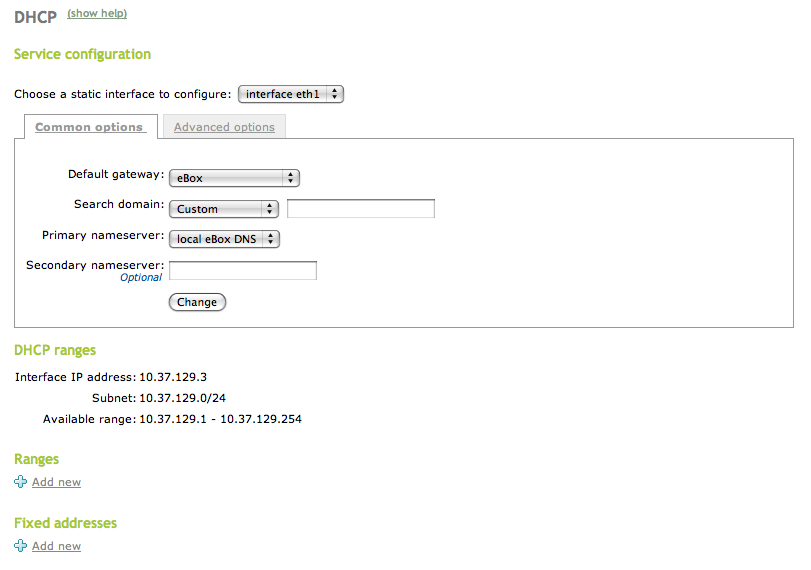
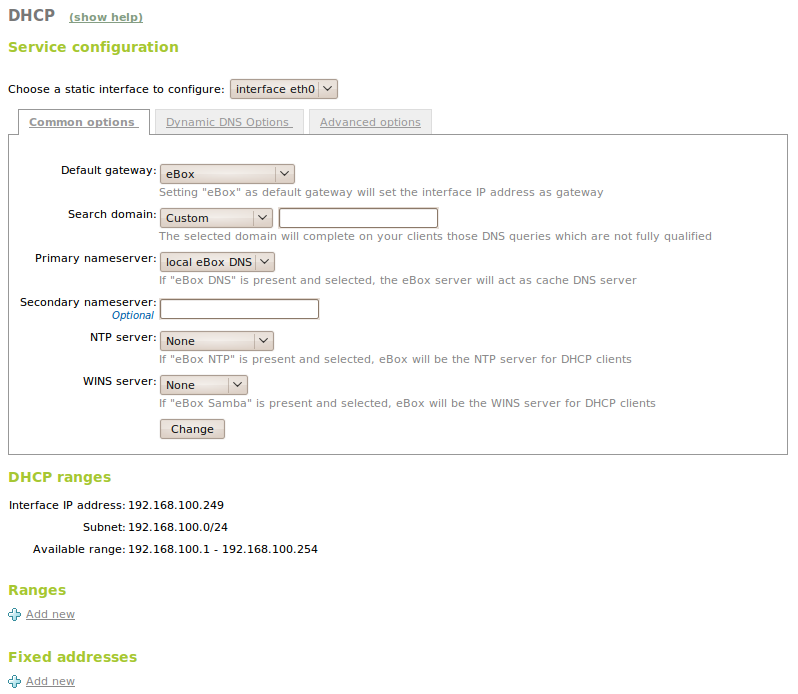
NN: Updated DHCP configuration with new features (NTP, WINS options and dynamic DNS) closes #1659
git-svn-id: http://svn.zentyal.org/zentyal/trunk@15983 866bc4c1-54da-0310-a958-9d5a9a0e8d04

diff --git a/docs/es/user/dhcp.rst b/docs/es/user/dhcp.rst
@@ -10,15 +10,17 @@ Servicio de configuración de red (DHCP)
                    Jorge Salamero <jsalamero@ebox-platform.com>,
                    Javier Uruen <juruen@ebox-platform.com>,
 
-Como hemos comentado, **DHCP** (*Dynamic Host Configuration Protocol*) es un
-protocolo que permite a un dispositivo pedir y obtener una dirección IP
-desde un servidor que tiene una lista de direcciones disponibles para asignar.
+Como hemos comentado, **DHCP** (*Dynamic Host Configuration Protocol*)
+es un protocolo que permite a un dispositivo pedir y obtener una
+dirección IP desde un servidor que tiene una lista de direcciones
+disponibles para asignar.
 
-El servicio DHCP [#]_ se usa también para obtener otros muchos parámetros tales como la
-*puerta de enlace por defecto*, la *máscara de red*, las *direcciones IP de los
-servidores de nombres* o el *dominio de búsqueda* entre otros. De esta
-manera, se facilita el acceso a la red sin la necesidad de una
-configuración manual por parte del cliente.
+El servicio DHCP [#]_ se usa también para obtener otros muchos
+parámetros tales como la *puerta de enlace por defecto*, la *máscara
+de red*, las *direcciones IP de los servidores de nombres* o el
+*dominio de búsqueda* entre otros. De esta manera, se facilita el
+acceso a la red sin la necesidad de una configuración manual por parte
+del cliente.
 
 .. [#] eBox usa "*ISC DHCP Software*" (https://www.isc.org/software/dhcp)
        para configurar el servicio de DHCP
@@ -60,18 +62,18 @@ dirección IP, estos parámetros se pueden configurar en la pestaña de
 :menuselection:`Opciones comunes`.
 
 Puerta de enlace por defecto:
-  Es la puerta de enlace que va a emplear
-  el cliente si no conoce otra ruta por la que enviar el paquete a su
-  destino. Su valor puede ser eBox, una puerta de enlace ya
-  configurada en el apartado :menuselection:`Red --> Routers` o una
-  dirección IP personalizada.
+  Es la puerta de enlace que va a emplear el cliente si no conoce otra
+  ruta por la que enviar el paquete a su destino. Su valor puede ser
+  :guilabel:`eBox`, una puerta de enlace ya configurada en el apartado
+  :menuselection:`Red --> Routers` o una :guilabel:`dirección IP
+  personalizada`.
 
 Dominio de búsqueda:
   En una red cuyas máquinas estuvieran nombradas siguiendo la forma
-  *<máquina>.dominio.com*, se podría configurar el dominio de búsqueda
-  como "dominio.com". De esta forma, cuando se intente resolver un
+  *<máquina>.sub.dominio.com*, se podría configurar el dominio de búsqueda
+  como "sub.dominio.com". De esta forma, cuando se intente resolver un
   nombre de dominio sin éxito, se intentará de nuevo añadiéndole el
-  dominio de búsqueda al final.
+  dominio de búsqueda al final o partes de ese dominio.
 
   Por ejemplo, si *smtp* no se puede resolver como dominio, se
   intentará resolver *smtp.dominio.com* en la máquina cliente.
@@ -80,15 +82,40 @@ Dominio de búsqueda:
   que se haya configurado en el servicio de DNS.
 
 Servidor de nombres primario:
-  Se trata de aquel servidor DNS con el que contactará el cliente en
-  primer lugar cuando tenga que resolver un nombre o traducir una
-  dirección IP a un nombre. Su valor puede ser eBox (si queremos que se
-  consulte el propio servidor DNS de eBox) o una dirección IP de otro
-  servidor DNS.
+  Se trata de aquel servidor DNS [#]_ con el que contactará el cliente
+  en primer lugar cuando tenga que resolver un nombre o traducir una
+  dirección IP a un nombre. Su valor puede ser :guilabel:`eBox DNS
+  local` (si queremos que se consulte el propio servidor DNS de eBox,
+  hay que tener en cuenta que el módulo **dns** debe estar habilitado)
+  o una dirección IP de otro servidor DNS.
+
+.. [#] Ir a la sección :ref:`dns-chapter-ref` para tener más detalles
+       sobre este servicio.
 
 Servidor de nombres secundario:
   Servidor DNS con el que contactará el cliente si el primario no está
   disponible. Su valor debe ser una dirección IP de un servidor DNS.
+
+Servidor NTP:
+  Este es el servidor **NTP** (*Network Transport Protocol*) [#]_ que
+  el cliente usará cuando quiera sincronizar su reloj usando la
+  red. Su valor puede ser ninguno, :guilabel:`eBox NTP local` (hay que
+  tener en cuenta que el módulo **ntp** debe estar habilitado) o un
+  servidor NTP :guilabel:`personalizado`.
+
+.. [#] Comprobar la sección :ref:`ntp-chapter-ref` para obtener
+       detalles sobre el servicio de sincronización de hora
+
+Servidor WINS:
+  Este es el servidor **WINS** (*Windows Internet Name Service*) [#]_
+  que el cliente usará para resolver nombres NetBIOS. Su valor puede
+  ser ninguno, :guilabel:`eBox local` (hay que tener en cuenta que el
+  módulo **samba** debe estar habilitado) o uno
+  :guilabel:`personalizado`.
+
+.. [#] WINS es una implementación para **NBNS** (*NetBIOS Name
+       Service*). Para obtener más información sobre ello, ir a la
+       sección :ref:`filesharing-chapter-ref`.
 
 Debajo de las opciones comunes, se nos muestran los rangos de
 direcciones que se distribuyen mediante DHCP y las direcciones
@@ -97,20 +124,21 @@ menos debe haber un rango de direcciones a distribuir o una asignación
 estática. En caso contrario, el servidor DHCP **no** servirá direcciones
 IP aunque esté escuchando en todas las interfaces de red.
 
-Los rangos de direcciones y las direcciones estáticas disponibles para asignar
-desde una determinada interfaz vienen determinados por la dirección estática
-asignada a dicha interfaz. Cualquier dirección IP libre de la subred
-correspondiente puede utilizarse en rangos o asignaciones estáticas.
+Los rangos de direcciones y las direcciones estáticas disponibles para
+asignar desde una determinada interfaz vienen determinados por la
+dirección estática asignada a dicha interfaz. Cualquier dirección IP
+libre de la subred correspondiente puede utilizarse en rangos o
+asignaciones estáticas.
 
-Para añadir un nuevo rango, pulsar en :guilabel:`Añadir nuevo` en la
-sección :guilabel:`Rangos`. Allí introducimos un nombre con el que
-identificar el rango y los valores que se quieran asignar dentro del
-rango que aparece encima.
+Añadir un rango en la sección :guilabel:`Rangos` se hace introduciendo
+un :guilabel:`nombre` con el que identificar el rango y los valores
+que se quieran asignar dentro del rango que aparece encima.
 
 Se pueden realizar asignaciones estáticas de direcciones IP a
 determinadas direcciones físicas en el apartado
 :guilabel:`Asignaciones estáticas`. Una dirección asignada de este
-modo no puede formar parte de ningún rango.
+modo no puede formar parte de ningún rango. Se puede añadir una
+:guilabel:`descripción` opcional para la asignación también.
 
 .. figure:: images/dhcp/02-dhcp-adv.png
    :alt: Aspecto de las configuración avanzada para DHCP
@@ -148,7 +176,43 @@ caso se puede cargar el fichero de la imagen.
 Actualizaciones dinámicas de DNS
 ^^^^^^^^^^^^^^^^^^^^^^^^^^^^^^^^
 
-.. TODO:
+El servidor DHCP tiene la habilidad de actualizar dinámicamente el
+servidor DNS [#]_. Esto es, el servidor DHCP actualizará en tiempo
+real los registros **A** y **PTR** para mapear una dirección IP a un
+nombre de máquina y viceversa cuando se sirva una dirección IP. La
+manera que esto se hace es dependiente de la configuración del
+servidor DHCP.
+
+.. [#] El :rfc:`2136` explica como hacer actualizaciones automáticas
+       en el Sistema de Nombres de Dominio (DNS).
+
+Con eBox es posible usar la actualización dinámica de DNS integrando
+los módulos de **dhcp** y **dns** de la misma máquina dentro la
+pestaña :menuselection:`Opciones de DNS dinámico`. Para habilitar esta
+característica, el módulo DNS debe ser habilitado también. Se debe
+disponer un :guilabel:`Dominio dinámico` y un :guilabel:`Dominio
+estático`, que ambos se añadirán a la configuración de DNS
+automáticamente. El dominio dinámico mapea los nombres de máquinas
+cuya dirección IP corresponde a una del rango y el nombre asociado
+sigue este patrón:
+*dhcp-<dirección-IP-ofrecida>.<dominio-dinámico>*. Con respecto al
+dominio estático, el nombre de máquina seguirá este patrón:
+*<nombre>.<dominio-estático>* siendo el nombre que se establece en la
+tabla de :guilabel:`Asignaciones estáticas`. Hay que tener en cuenta
+que una actualización desde el cliente DHCP es ignorada por eBox.
+
+.. figure:: images/dhcp/03-dhcp-dns-updates.png
+   :alt: Configuración de actualizaciones DNS dinámicas
+   :scale: 70
+
+   Configuración de actualizaciones DNS dinámicas
+
+La actualización se hace usando un protocolo seguro [#]_ y,
+actualmente, sólo el mapeo directo está soportado por eBox.
+
+.. [#] La comunicación se realiza usando **TSIG** (*Transaction
+       SIGnature*) para autenticar las peticiones de actualizaciones
+       dinámicas usando una clave secreta compartida.
 
 Ejemplo práctico
 ^^^^^^^^^^^^^^^^

diff --git a/docs/en/user/dhcp.rst b/docs/en/user/dhcp.rst
@@ -18,7 +18,7 @@ The DHCP service [#]_ is also used to obtain many other parameters, such as the
 *default gateway*, the *network mask*, the *IP addresses for the
 name servers* or the *search domain*, among others. Hence,
 access to the network is made easier, without the need for
-manual configuration by clients.
+manual configuration done by clients.
 
 .. [#] eBox uses "*ISC DHCP Software*" (https://www.isc.org/software/dhcp)
        to configure the DHCP service.
@@ -26,7 +26,7 @@ manual configuration by clients.
 When a DHCP client connects to the network, it sends a
 *broadcast* request and the DHCP server responds to valid requests
 with an IP address, the lease time granted for that IP and the
-parameters explained above. The request normally occurs during
+parameters explained above. The request usually happens during
 the client booting period and must be completed before
 going on with the remaining network services.
 
@@ -59,18 +59,17 @@ IP address. These parameters can be configured in the
 :menuselection:`Common options` tab.
 
 Default gateway:
-  This is the gateway to be used
-  by the client if it is unaware of another route to send the package
-  to its destination. Its value can be eBox, a gateway already
-  configured in the :menuselection:`Network --> Routers` section or a
-  custom IP address.
+  This is the gateway to be used by the client if it is unaware of
+  another route to send the package to its destination. Its value can
+  be :guilabel:`eBox`, a gateway already configured in the
+  :menuselection:`Network --> Gateways` section or a :guilabel:`custom
+  IP address`.
 
 Search domain:
-  In a network with hosts named in line with
-  *<host>.domain.com*, the search domain can be configured
-  as "domain.com". Hence, when seeking to resolve an
-  unsuccessful domain name, another attempt can be made by adding the
-  search domain to the end of it.
+  In a network with hosts named in line with *<host>.sub.domain.com*,
+  the search domain can be configured as "sub.domain.com". Hence, when
+  seeking to resolve an unsuccessful domain name, another attempt can
+  be made by adding the search domain to the end of it or parts of it.
 
   For example, if *smtp* cannot be resolved as a domain,
   *smtp.domain.com* will be tried on the client host.
@@ -79,15 +78,37 @@ Search domain:
   service can be selected.
 
 Primary name server:
-  This is the DNS server that the client will use
-  when a name is to be resolved or an IP address needs to be
-  translated into a name. Its value can be eBox (if the eBox DNS server
-  is to be queried) or an IP address of another
-  DNS server.
+  This is the DNS server [#]_ that the client will use when a name is to be
+  resolved or an IP address needs to be translated into a name. Its
+  value can be :guilabel:`local eBox DNS` (if the eBox DNS server is to be
+  queried, take into account **dns** module must be enabled) or an IP
+  address of another DNS server.
+
+.. [#] Go to :ref:`dns-chapter-ref` section for more details about
+       this service.
 
 Secondary name server:
   DNS server that the client will use if the primary one is not
   available. Its value must be the IP address of a DNS server.
+
+NTP server:
+  This is the **NTP** (Network Transport Protocol) [#]_ server that the
+  client will use when it wants to synchronize its clock using the
+  network. Its value can be none, :guilabel:`local eBox NTP` (take into account
+  **ntp** module must be enabled) or a :guilabel:`custom` NTP server.
+
+.. [#] Check out :ref:`ntp-chapter-ref` section for details about the
+       time synchronization service
+
+WINS server:
+  This is the **WINS** (Windows Internet Name Service) [#]_ server the
+  client will use to resolve NetBIOS names. Its value can be none,
+  :guilabel:`local eBox` (take into account **samba** must be enabled)
+  or a :guilabel:`custom` one.
+
+.. [#] WINS is the implementation for **NBNS** (NetBIOS Name
+       Service). For more information about it, check out
+       :ref:`filesharing-chapter-ref` section.
 
 The common options display the ranges of addresses distributed by DHCP
 and the addresses assigned manually. For the DHCP service to be
@@ -101,17 +122,17 @@ from a certain interface are determined by the static address
 assigned to that interface. Any free IP address from the corresponding
 subnet can be used in ranges or static assignments.
 
-To add a new range, click on :guilabel:`Add new` in the
-:guilabel:`Ranges` section. Then enter a name by which to
-identify the range and the values to be assigned within the
-range appearing above.
+Adding a range in the :guilabel:`Ranges` section is done by entering a
+:guilabel:`name` by which to identify the range and the values to be
+assigned within the range appearing above.
 
-Static assignments of IP addresses are possible to
-determined physical addresses in the
-:guilabel:`Static assignments` section. An address assigned in this
-way cannot form part of any range.
+Static assignments of IP addresses are possible to determined physical
+addresses in the :guilabel:`Fixed Addresses` section. An address
+assigned in this way cannot form part of any range. You may add an
+optional :guilabel:`description` for that assignment as well.
 
 .. figure:: images/dhcp/02-dhcp-adv.png
+   :scale: 70
    :alt: appearance of the advanced configuration for DHCP
 
    Appearance of the advanced configuration for DHCP
@@ -146,7 +167,40 @@ the image file can be loaded.
 Dynamic DNS updates
 ^^^^^^^^^^^^^^^^^^^
 
-.. TODO
+The DHCP server has the ability to dynamically update the DNS server
+[#]_. That is, the DHCP server will update in real time the **A** and
+**PTR** records to map an IP address to a host name and vice versa
+when an IP address is leased and released. The way that is done, it
+depends on the DHCP server configuration.
+
+.. [#] The :rfc:`2136` explains how to do dynamic updates in the
+       Domain Name System
+
+eBox provides dynamic DNS feature integrating **dhcp** and **dns**
+modules from the same box in :menuselection:`Dynamic DNS Options` tab. In
+order to enable this feature, the DNS module must be enabled as
+well. You may provide a :guilabel:`Dynamic domain` and a
+:guilabel:`Static domain`, which both will be added automatically to
+the DNS configuration. The dynamic domain maps the host names whose IP
+address corresponds from a range and the associated name follows this
+pattern: *dhcp-<leased-IP-address>.<dynamic-domain>*. Regarding to the
+static domain, the host name will follow this pattern:
+*<name>.<static-domain>* being the name the one you set on
+:guilabel:`Fixed addresses` table. Take into account that any DHCP
+client name update is ignored from eBox.
+
+.. figure:: images/dhcp/03-dhcp-dns-updates.png
+   :alt: Dynamic DNS updates configuration
+   :scale: 70
+
+   Dynamic DNS updates configuration
+
+The update is done using a secure protocol [#]_ and, currently, only
+direct mapping is supported.
+
+.. [#] Communication is done using **TSIG** (Transaction SIGnature) to
+       authenticate the dynamic update requests using a shared secret
+       key.
 
 Practical example
 ^^^^^^^^^^^^^^^^^

diff --git a/docs/es/user/dns.rst b/docs/es/user/dns.rst
@@ -1,3 +1,5 @@
+.. _dns-chapter-ref:
+
 Servicio de resolución de nombres (DNS)
 ***************************************
 
@@ -160,7 +162,7 @@ tantos alias como se deseen.
 
 Con eBox se establece automáticamente el servidor autorizado para los
 dominios configurados a la máquina con nombre **ns**. Si esa máquina
-no existe, entonces se usa 127.0.0.1 c omo servidor de nombres
+no existe, entonces se usa 127.0.0.1 como servidor de nombres
 autorizado. Si quieres configurar el servidor de nombres autorizado
 manualmente para tus dominios (registros **NS**), ve a
 :guilabel:`servidores de nombres` y elige una de las máquinas del

diff --git a/docs/es/user/ntp.rst b/docs/es/user/ntp.rst
@@ -1,3 +1,5 @@
+.. _ntp-chapter-ref:
+
 Servicio de sincronización de hora (NTP)
 ****************************************
 

diff --git a/docs/en/user/ntp.rst b/docs/en/user/ntp.rst
@@ -1,3 +1,5 @@
+.. _ntp-chapter-ref:
+
 Time synchronization service (NTP)
 **********************************
 

diff --git a/docs/en/user/dns.rst b/docs/en/user/dns.rst
@@ -1,3 +1,5 @@
+.. _dns-chapter-ref:
+
 Name resolution service (DNS)
 *****************************
 
